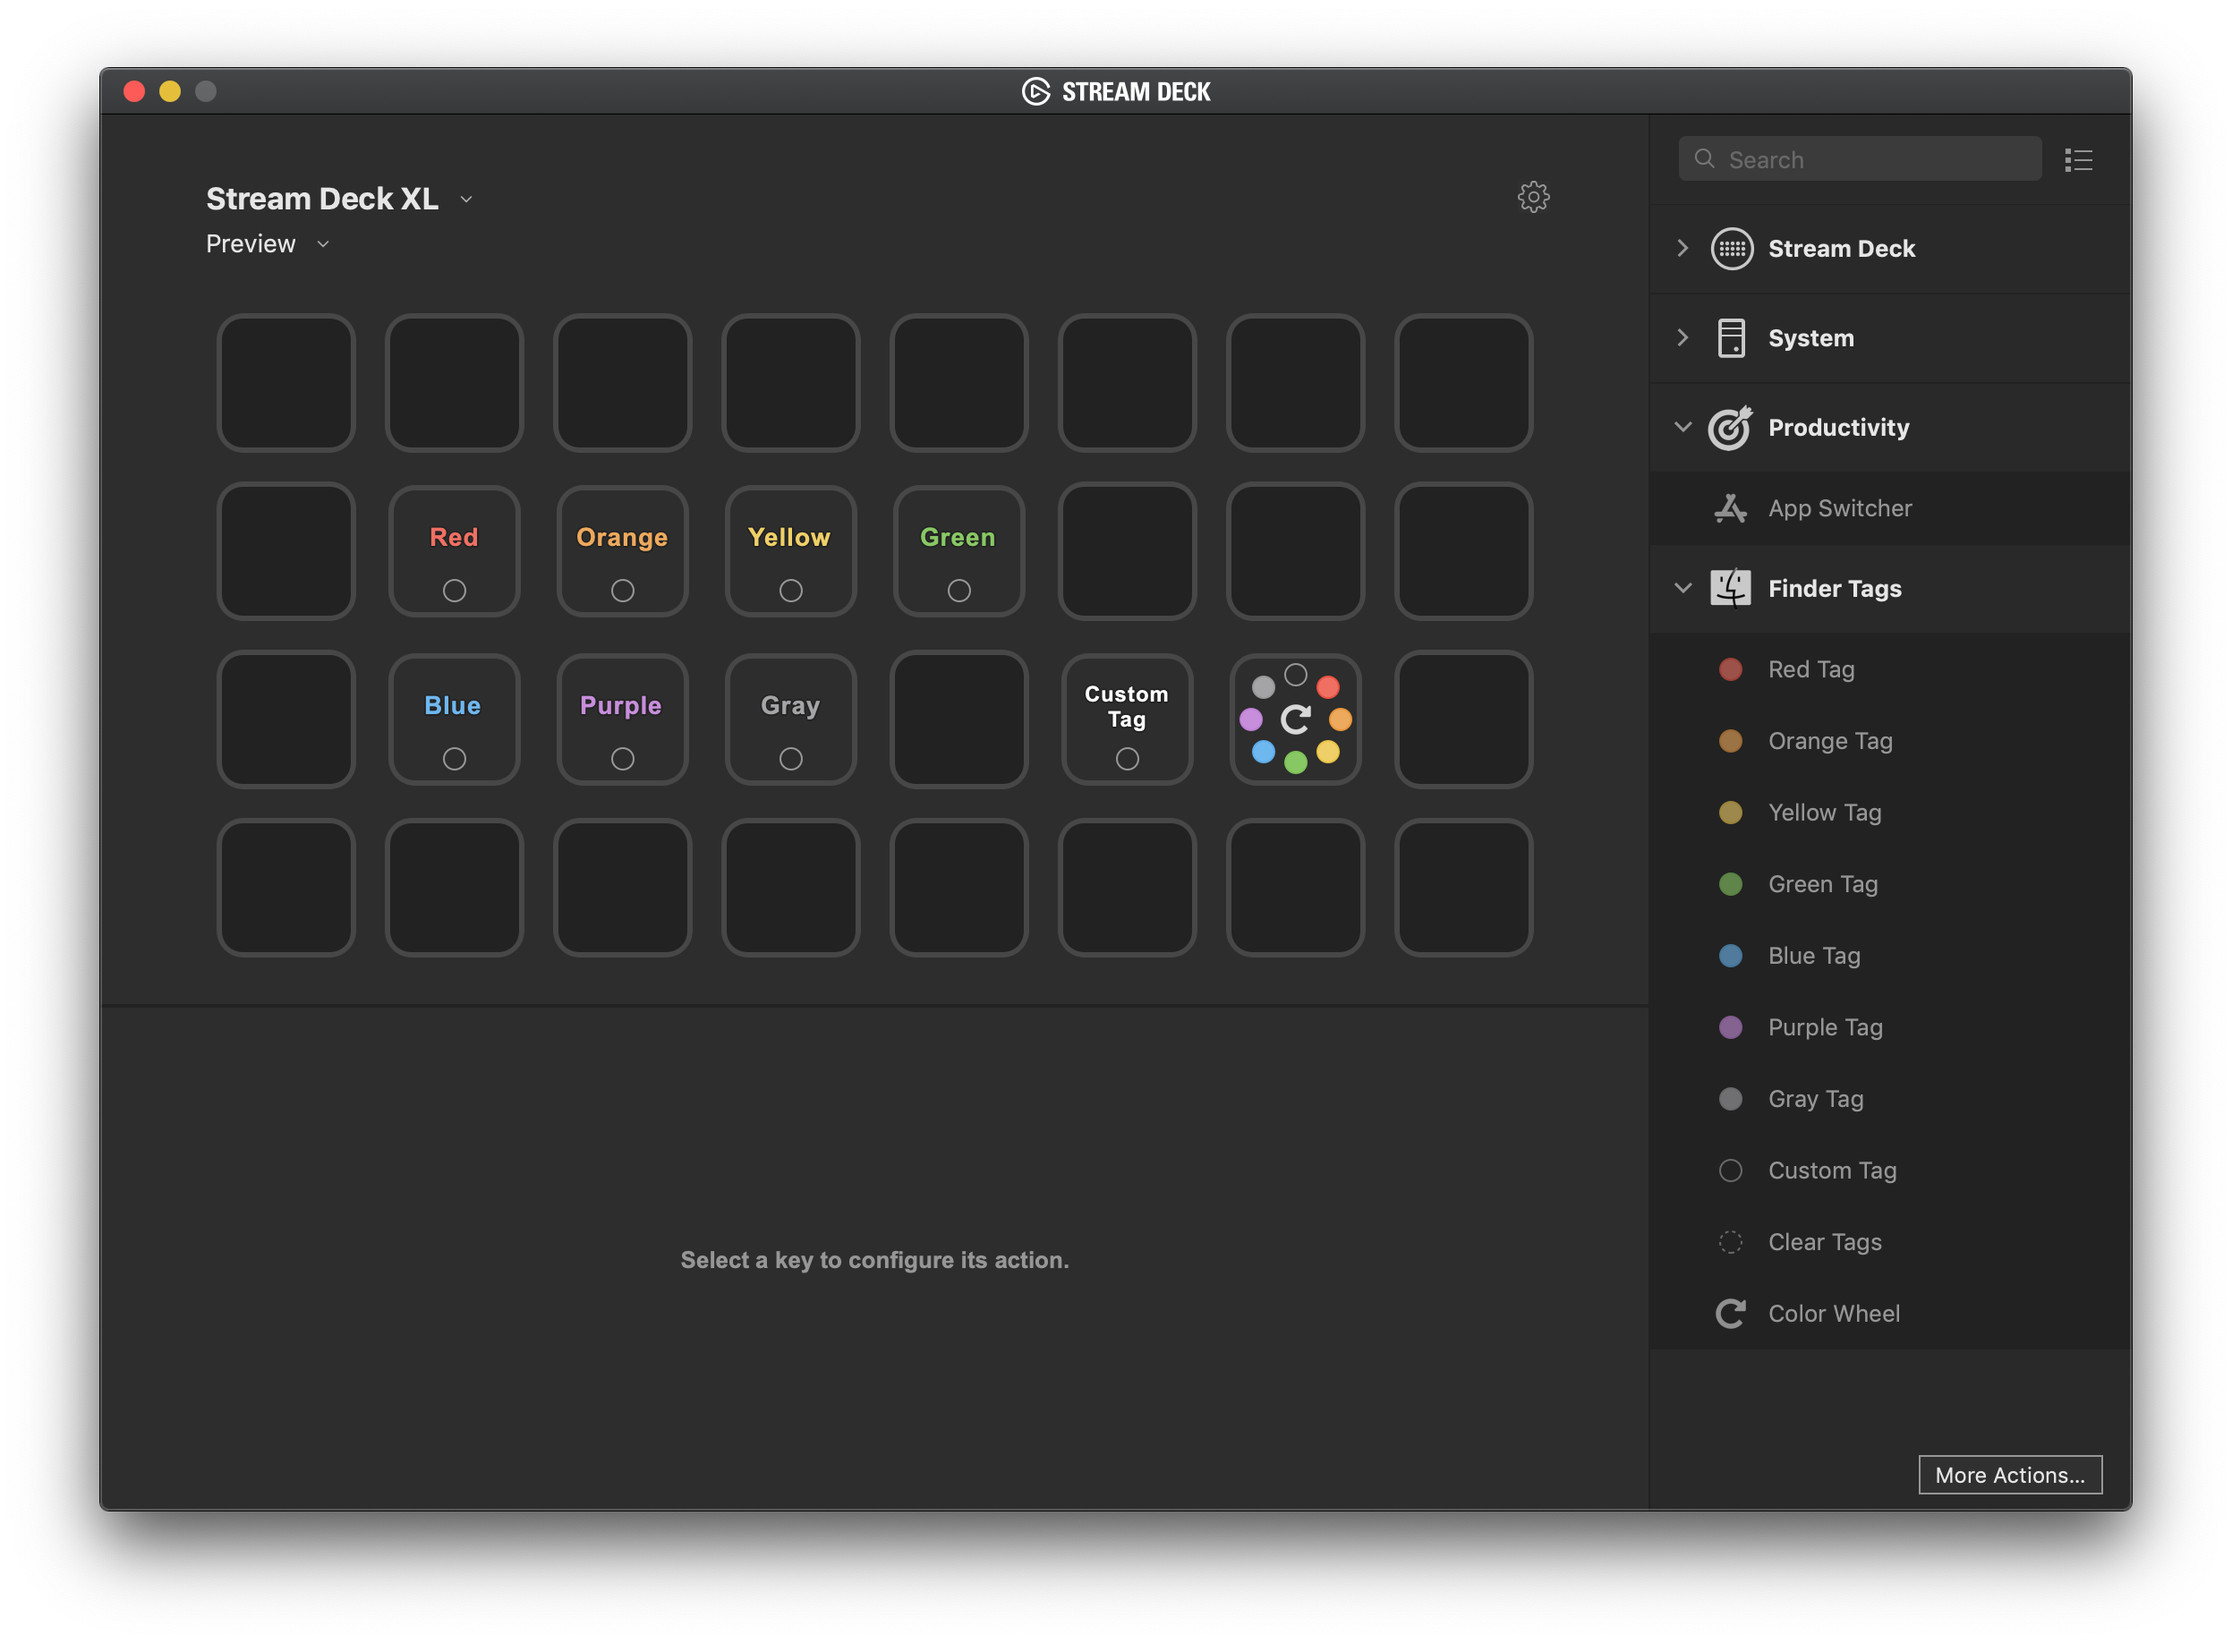
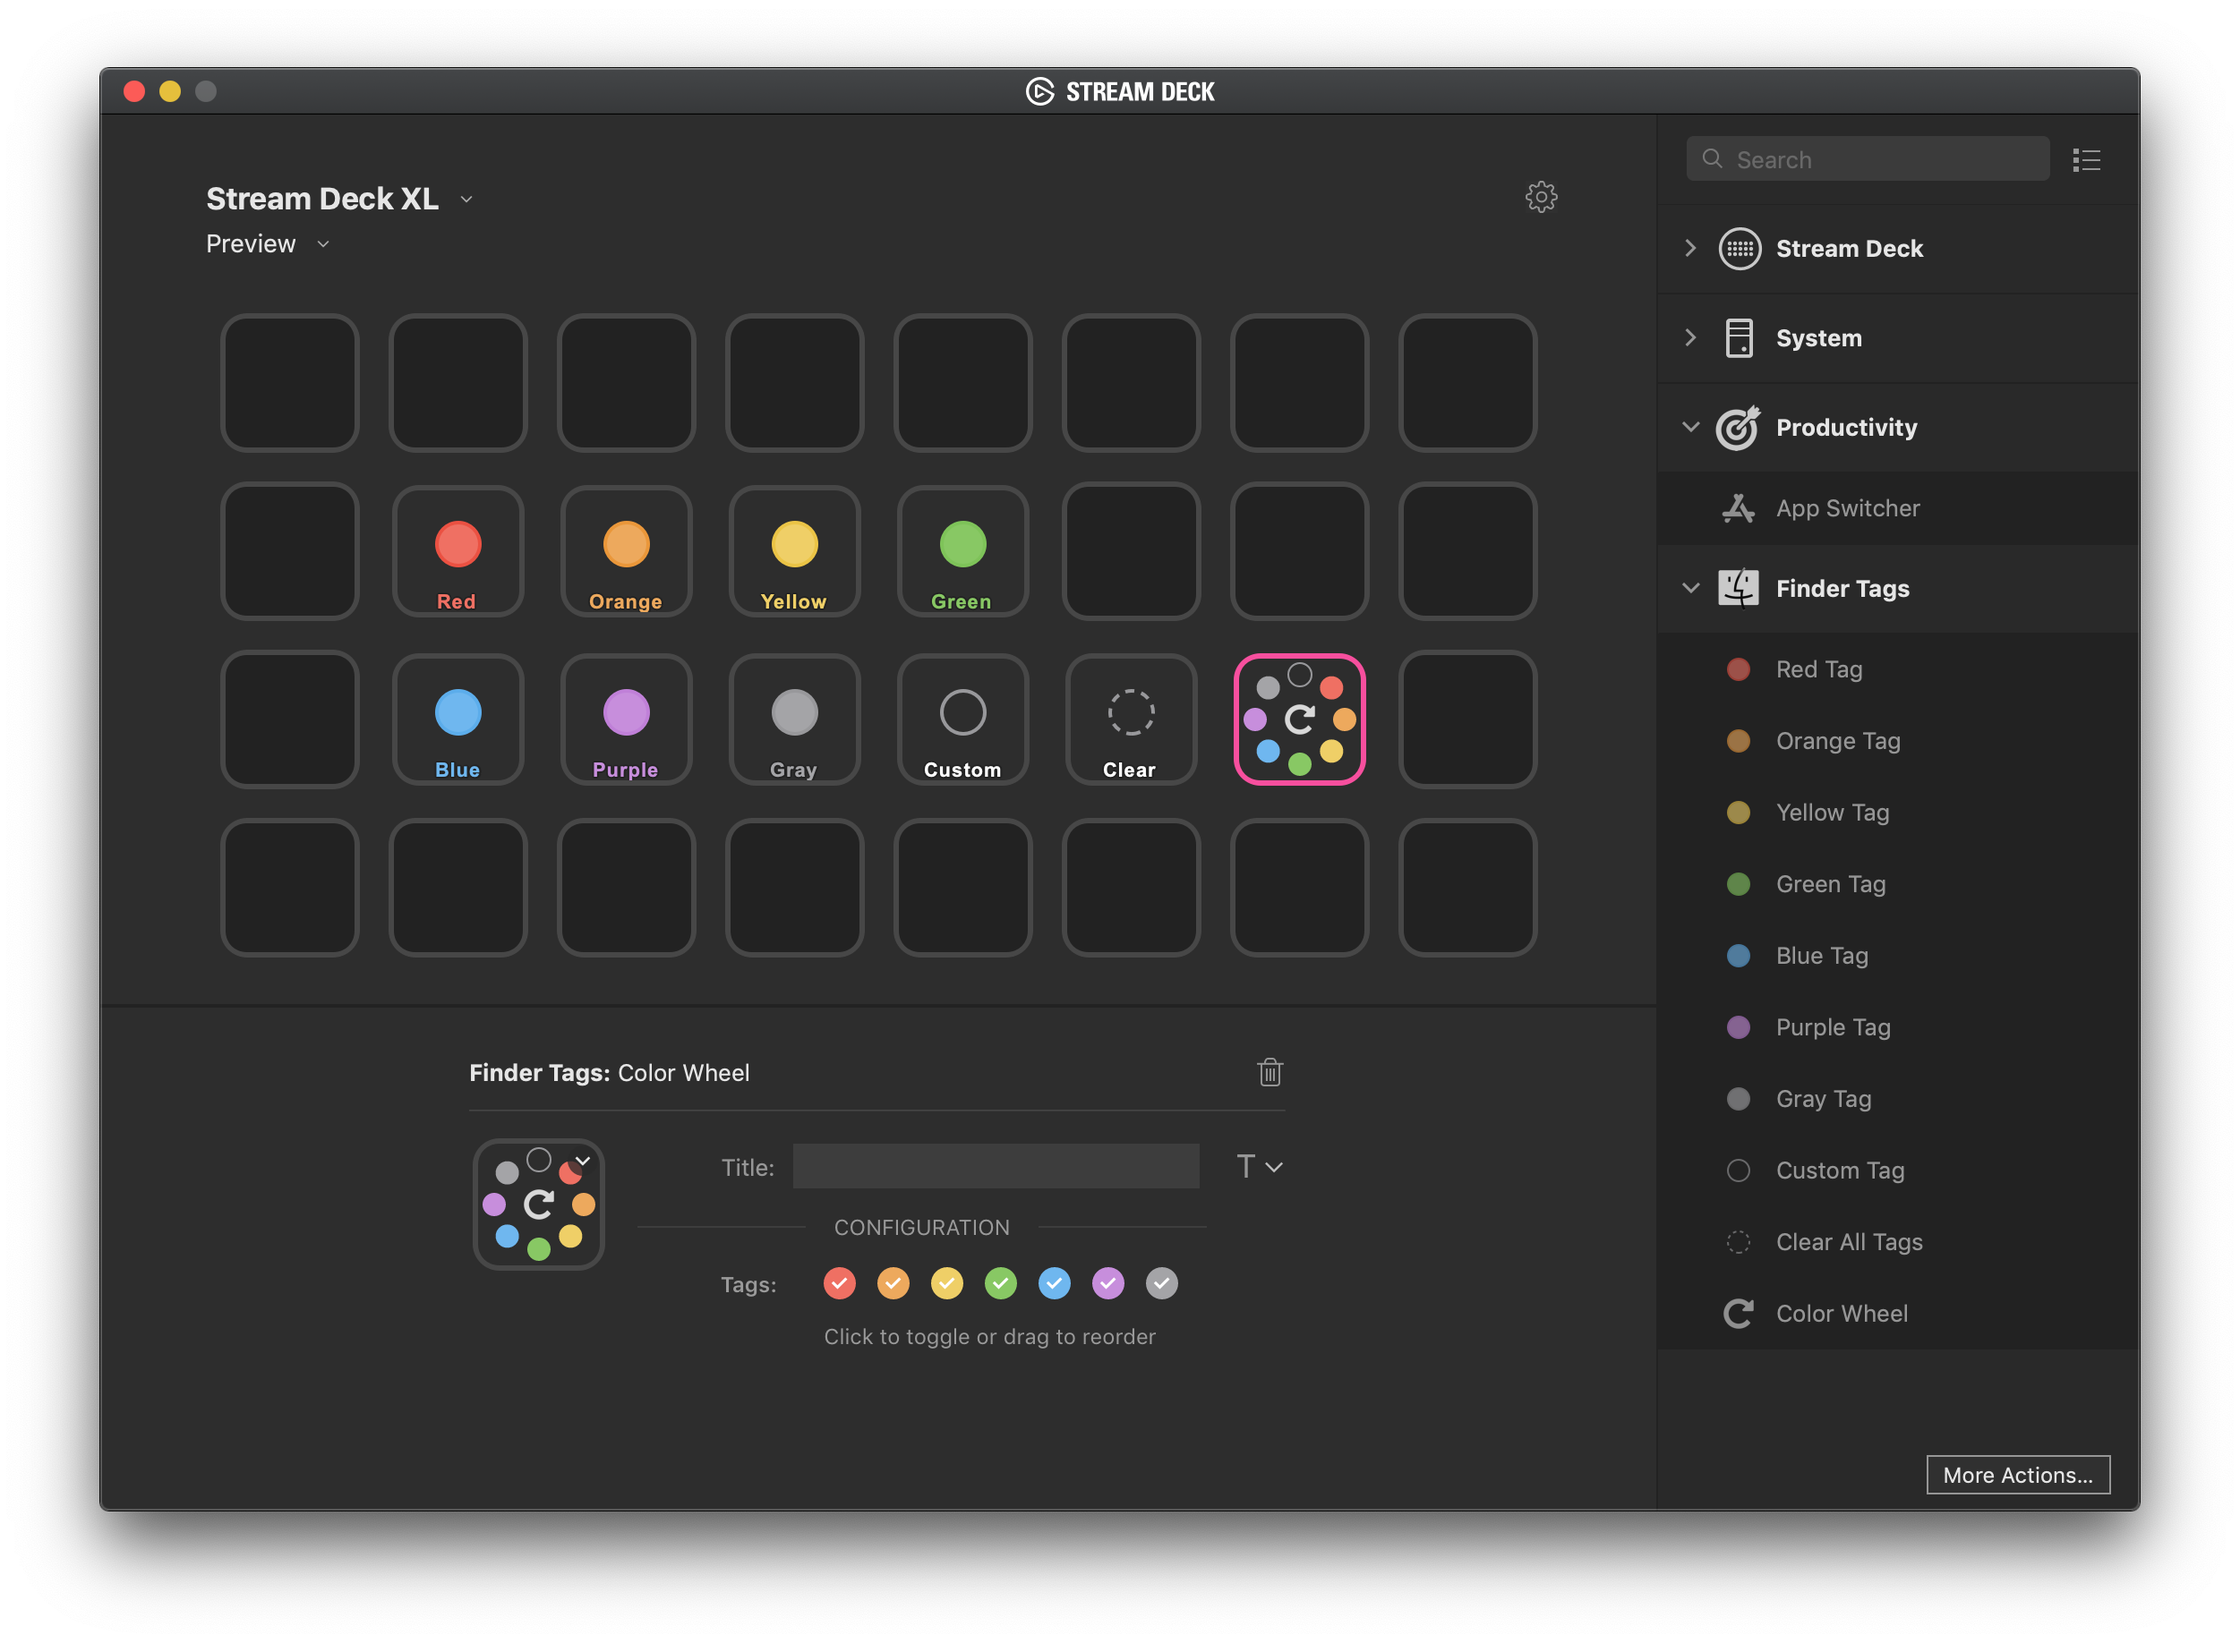
Update README

diff --git a/README.md b/README.md
@@ -16,8 +16,10 @@ It's made for *macOS* only.
 
 - 7 color buttons for quickly adding a color tag to the selected files.
 - A color wheel, which rotates the color in the following order: ```Red, Orange, Yellow, Green, Blue, Purple, Gray```
-- Assign custom tags, optionally with a color.
+- Customize color wheel with tags you use the most
+- Create custom tags, optionally with a color.
 - A single button for clearing all tags from the selected files.
+- Localized tag names
 
 ![](screenshot-streamdeck.png)
 
